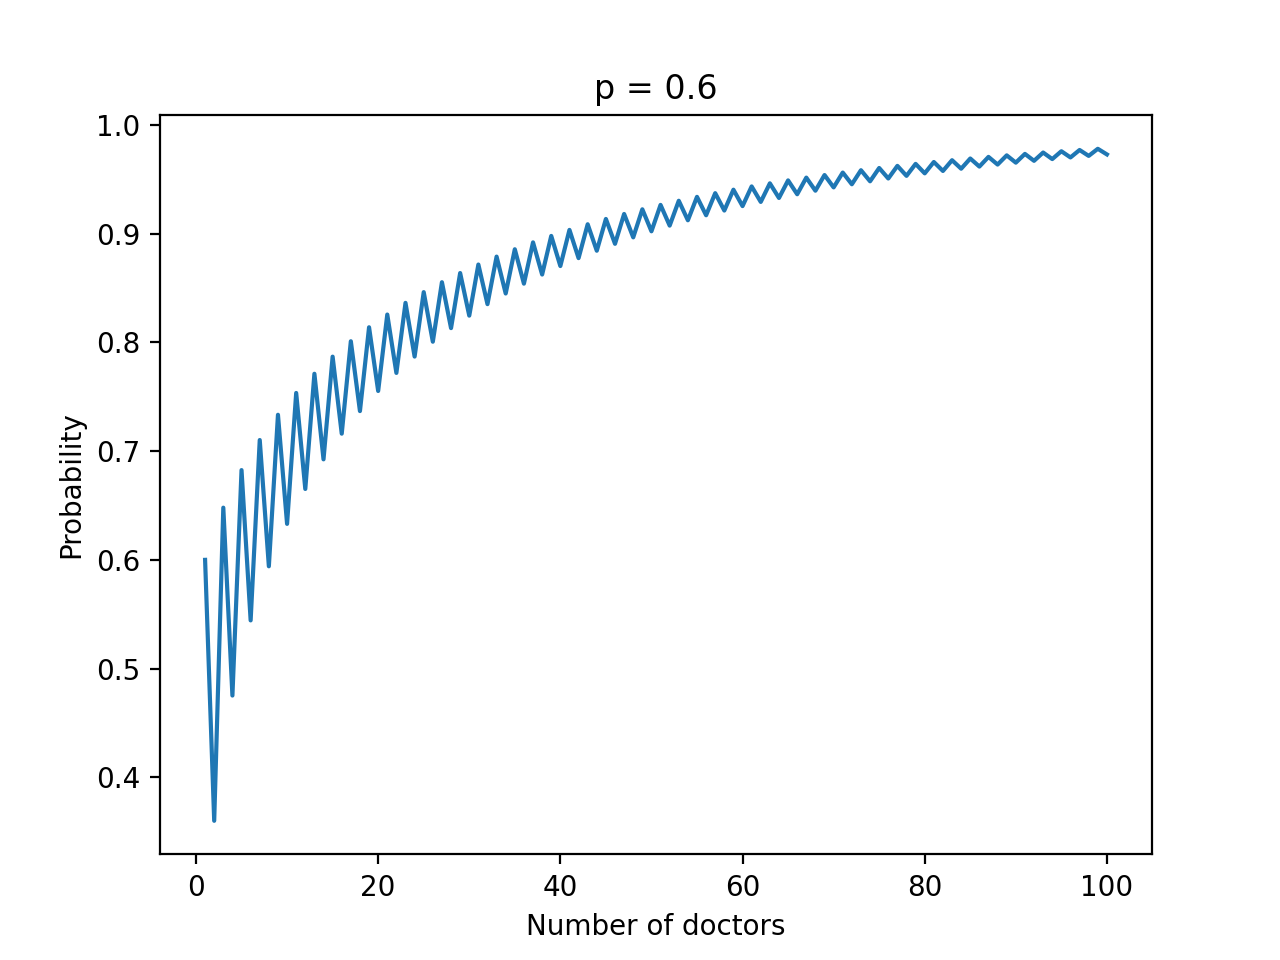
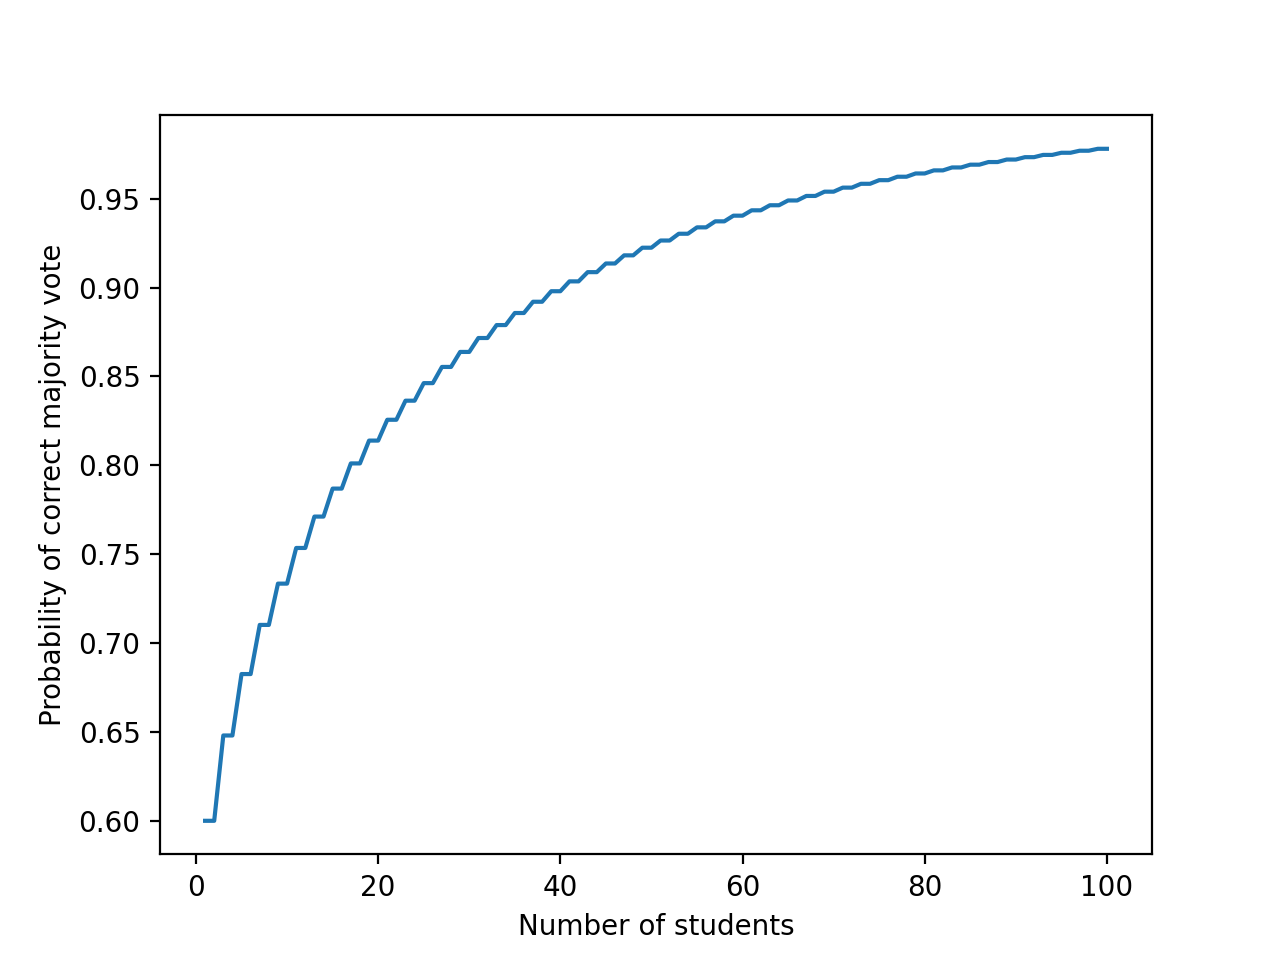
Final code and graphs for ex 1

diff --git a/Ensemble Learning/Ex1/prob.py b/Ensemble Learning/Ex1/prob.py
@@ -1,5 +1,18 @@
 import math
 import matplotlib.pyplot as plt
+import operator as op
+from functools import reduce
+
+
+# I don't understand this code completely, took it from
+# https://stackoverflow.com/questions/4941753/is-there-a-math-ncr-function-in-python
+# This if the faster version to compute a combination and more stable to overflow
+def ncr(n, r):
+    r = min(r, n-r)
+    numer = reduce(op.mul, range(n, n-r, -1), 1)
+    denom = reduce(op.mul, range(1, r+1), 1)
+    return numer / denom
+
 
 def maj_vote_probability(c, p):
     # the first k we consider is c/2 for even number and (c+1)/2 for odd
@@ -10,32 +23,42 @@ def maj_vote_probability(c, p):
         # we solve a tie in case of even number by tossing a coin, thus for the case when the number of correct
         # decision equals to the number of incorrect decisions we need to multiply the probability to 0.5
         weight = 0.5 if k == k1 and c % 2 == 0 else 1
-        probability += weight * math.factorial(c)/math.factorial(k)/math.factorial(c-k)*math.pow(p, k)*math.pow(1-p, c-k)
+        probability += weight * ncr(c, k) * math.pow(p, k)*math.pow(1-p, c-k)
 
     return probability
 
 
-#def graph_p(c, p_range):
-
-
-def graph_p(c_range, p):
-    probabilities = [maj_vote_probability(c, p) for c in c_range]
-
+def plot_p_and_c(p_values=[0.4, 0.49, 0.5, 0.51, 0.6, 0.75, 0.9], c_range=range(1, 101)):
     plt.figure()
-    plt.plot(c_range, probabilities)
-    plt.xlabel('Number of doctors')
-    plt.ylabel('Probability')
-    plt.title('p = {}'.format(p))
+
+    for p in p_values:
+        probabilities = [maj_vote_probability(c, p) for c in c_range]
+        linestyle = '--' if p==0.5 else '-'
+        plt.plot(c_range, probabilities, linestyle=linestyle, label='p = {}'.format(p))
+
+    plt.xlabel('Size of ensemble')
+    plt.ylabel('Probability of correct majority vote')
+    plt.legend(bbox_to_anchor=(1.04, 0.5), loc="center left", borderaxespad=0)
+    plt.subplots_adjust(right=0.75)
+    plt.show()
+
+
+def plot_students(c_range=range(1, 101)):
+    p = 0.6
+    probabilities = [maj_vote_probability(c, p) for c in c_range]
+    plt.figure()
+    plt.plot(c_range, probabilities, label='p = {}'.format(p))
+    plt.xlabel('Number of students')
+    plt.ylabel('Probability of correct majority vote')
     plt.show()
 
 
 
 def main():
-    probability = maj_vote_probability(151, 0.6)
+    probability = maj_vote_probability(39, 0.6)
     print("probability {}".format(probability))
 
-    # for students
-    graph_p(range(3, 151), 0.6)
+    plot_p_and_c()
 
 
 
